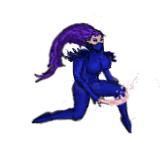
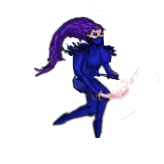
* basic jumping, need double jump & wall jump

Changed region(s): [[0.1829, 0.0915, 0.8537, 0.8537]]

diff --git a/src/views/helpers/Player.js b/src/views/helpers/Player.js
@@ -1,3 +1,4 @@
+import animate;
 import ui.View as View;
 import ui.SpriteView as SpriteView;
 
@@ -13,7 +14,9 @@ exports = Class(View, function(supr) {
 		GRAVITY = 0.003,
 		AIR_RESISTANCE = 0.0032,
 		WALL_RESISTANCE = 0.0064,
-		WALL_WIDTH = 56;
+		WALL_WIDTH = 56,
+		JUMP_ACCEL = -0.0125,
+		JUMP_ACCEL_TIME = 200;
 
 	var STATES = {},
 		STATE_IDLE = 0,
@@ -21,6 +24,7 @@ exports = Class(View, function(supr) {
 		STATE_FALLING = 2,
 		STATE_LANDING = 3,
 		STATE_WALL_SLIDING = 4,
+		STATE_JUMPING = 5,
 		STATE_DEFAULT = STATE_IDLE;
 
 	var PLAYER_URL = "resources/images/game/rogue/rogue";
@@ -59,6 +63,10 @@ exports = Class(View, function(supr) {
 			action: "wallSlide",
 			opts: { iterations: Infinity }
 		};
+		STATES[STATE_JUMPING] = {
+			action: "fall",
+			opts: { iterations: Infinity }
+		};
 
 		this.designView();
 		this.reset();
@@ -75,6 +83,10 @@ exports = Class(View, function(supr) {
 			autoStart: false,
 			canHandleEvents: false
 		});
+
+		this.boundJumpAccelEnd = bind(this, function() {
+			this.ignoreGravity = false;
+		});
 	};
 
 	this.reset = function() {
@@ -82,10 +94,11 @@ exports = Class(View, function(supr) {
 		this.style.y = this.y = (BG_HEIGHT - PLAYER_HEIGHT) / 2;
 		this.width = this.style.width;
 		this.height = this.style.height;
-		this.vx = 0;
-		this.vy = 0;
-		this.ax = 0;
-		this.ay = 0;
+		this.v = { x: 0, y: 0 };
+		this.a = { x: 0, y: 0 };
+		this.axAnim = animate(this.a, 'ax');
+		this.ayAnim = animate(this.a, 'ay');
+		this.ignoreGravity = false;
 		this.setState(STATE_DEFAULT);
 	};
 
@@ -95,6 +108,20 @@ exports = Class(View, function(supr) {
 			this.stateData = STATES[state];
 			this.sprite.startAnimation(this.stateData.action, this.stateData.opts);
 			this.stateData.blockInterrupts && (this.animating = true);
+		}
+	};
+
+	this.jump = function() {
+		if (this.state !== STATE_JUMPING
+			&& this.state !== STATE_FALLING)
+		{
+			this.setState(STATE_JUMPING);
+			this.ignoreGravity = true;
+			this.a.y = 0;
+
+			this.ayAnim.now({ y: JUMP_ACCEL }, JUMP_ACCEL_TIME / 2, animate.easeOut)
+			.then({ y: 0 }, JUMP_ACCEL_TIME / 2, animate.easeOut)
+			.then(this.boundJumpAccelEnd);
 		}
 	};
 
@@ -133,11 +160,11 @@ exports = Class(View, function(supr) {
 		}
 
 		var startY = this.y;
-		this.y += dt * this.vy / 2;
-		this.vy += dt * this.ay / 2;
-		this.ay = GRAVITY - this.vy * resistance;
-		this.vy += dt * this.ay / 2;
-		this.y += dt * this.vy / 2;
+		this.y += dt * this.v.y / 2;
+		this.v.y += dt * this.a.y / 2;
+		!this.ignoreGravity && (this.a.y = GRAVITY - this.v.y * resistance);
+		this.v.y += dt * this.a.y / 2;
+		this.y += dt * this.v.y / 2;
 		this.falling = !this.checkPlatformCollision(startY);
 
 		if (resistance !== WALL_RESISTANCE) {
@@ -170,8 +197,8 @@ exports = Class(View, function(supr) {
 					}
 
 					this.y = platY - PLAYER_FEET;
-					this.vy = 0;
-					this.ay = 0;
+					this.v.y = 0;
+					this.a.y = 0;
 					return true;
 				}
 			}

diff --git a/src/views/screens/GameView.js b/src/views/screens/GameView.js
@@ -4,6 +4,7 @@ import ui.ImageView as ImageView;
 import src.views.helpers.Parallax as Parallax;
 import src.views.helpers.Platforms as Platforms;
 import src.views.helpers.Player as Player;
+import src.views.helpers.Input as Input;
 
 exports = Class(View, function(supr) {
 
@@ -22,6 +23,7 @@ exports = Class(View, function(supr) {
 	};
 
 	this.designView = function() {
+		// all game views are children of rootView except for input
 		this.rootView = new View({
 			parent: this,
 			x: (this.style.width - BG_WIDTH) / 2,
@@ -51,6 +53,14 @@ exports = Class(View, function(supr) {
 			gameView: this,
 			zIndex: 100
 		});
+
+		this.input = new Input({
+			parent: this,
+			x: (this.style.width - BG_WIDTH) / 2,
+			y: (this.style.height - BG_HEIGHT) / 2,
+			width: BG_WIDTH,
+			height: BG_HEIGHT
+		});
 	};
 
 	this.resetView = function() {
@@ -64,19 +74,12 @@ exports = Class(View, function(supr) {
 	this.constructView = function() {};
 	this.deconstructView = function(callback) { callback && callback(); };
 
-	this.onInputStart = function(evt, pt) {
-		this.player.targetX = pt.x;
-	};
-
-	this.onInputMove = function(evt, pt) {
-		this.player.targetX = pt.x;
-	};
-
 	this.tick = function(dt) {
 		// step the player first, the others rely on offsetY
 		this.offsetY = this.player.step(dt);
 
 		this.platforms.step(dt);
 		this.parallax.step(dt);
+		this.input.step(dt);
 	};
 });

diff --git a/src/views/helpers/Input.js b/src/views/helpers/Input.js
@@ -1,0 +1,59 @@
+import ui.View as View;
+
+exports = Class(View, function(supr) {
+
+	var JUMP_PX_PER_MS = 0.25,
+		JUMP_PX_MIN = -40;
+
+	var gameView;
+
+	this.init = function(opts) {
+		supr(this, 'init', [opts]);
+		gameView = opts.parent;
+
+		this.inputStartEvt = null;
+		this.inputStartPt = null;
+		this.movedThisStep = false;
+		this.hasJumped = false;
+	};
+
+	this.onInputStart = function(evt, pt) {
+		if (this.inputStartEvt === null) {
+			this.inputStartEvt = evt;
+			this.inputStartPt = pt;
+			gameView.player.targetX = pt.x;
+		}
+	};
+
+	this.onInputMove = function(evt, pt) {
+		var startPt = this.inputStartPt,
+			startEvt = this.inputStartEvt;
+
+		if (!this.movedThisStep && startEvt && evt.id === startEvt.id) {
+			this.movedThisStep = true;
+			gameView.player.targetX = pt.x;
+
+			if (!this.hasJumped) {
+				var dx = pt.x - startPt.x,
+					dy = pt.y - startPt.y,
+					elapsed = evt.when - startEvt.when;
+				if (dy < JUMP_PX_MIN && elapsed && dy / elapsed < JUMP_PX_PER_MS) {
+					gameView.player.jump();
+					this.hasJumped = true;
+				}
+			}
+		}
+	};
+
+	this.onInputSelect = function(evt, pt) {
+		if (evt.id === this.inputStartEvt.id) {
+			this.inputStartEvt = null;
+			this.inputStartPt = null;
+			this.hasJumped = false;
+		}
+	};
+
+	this.step = function(dt) {
+		this.movedThisStep = false;
+	};
+});
